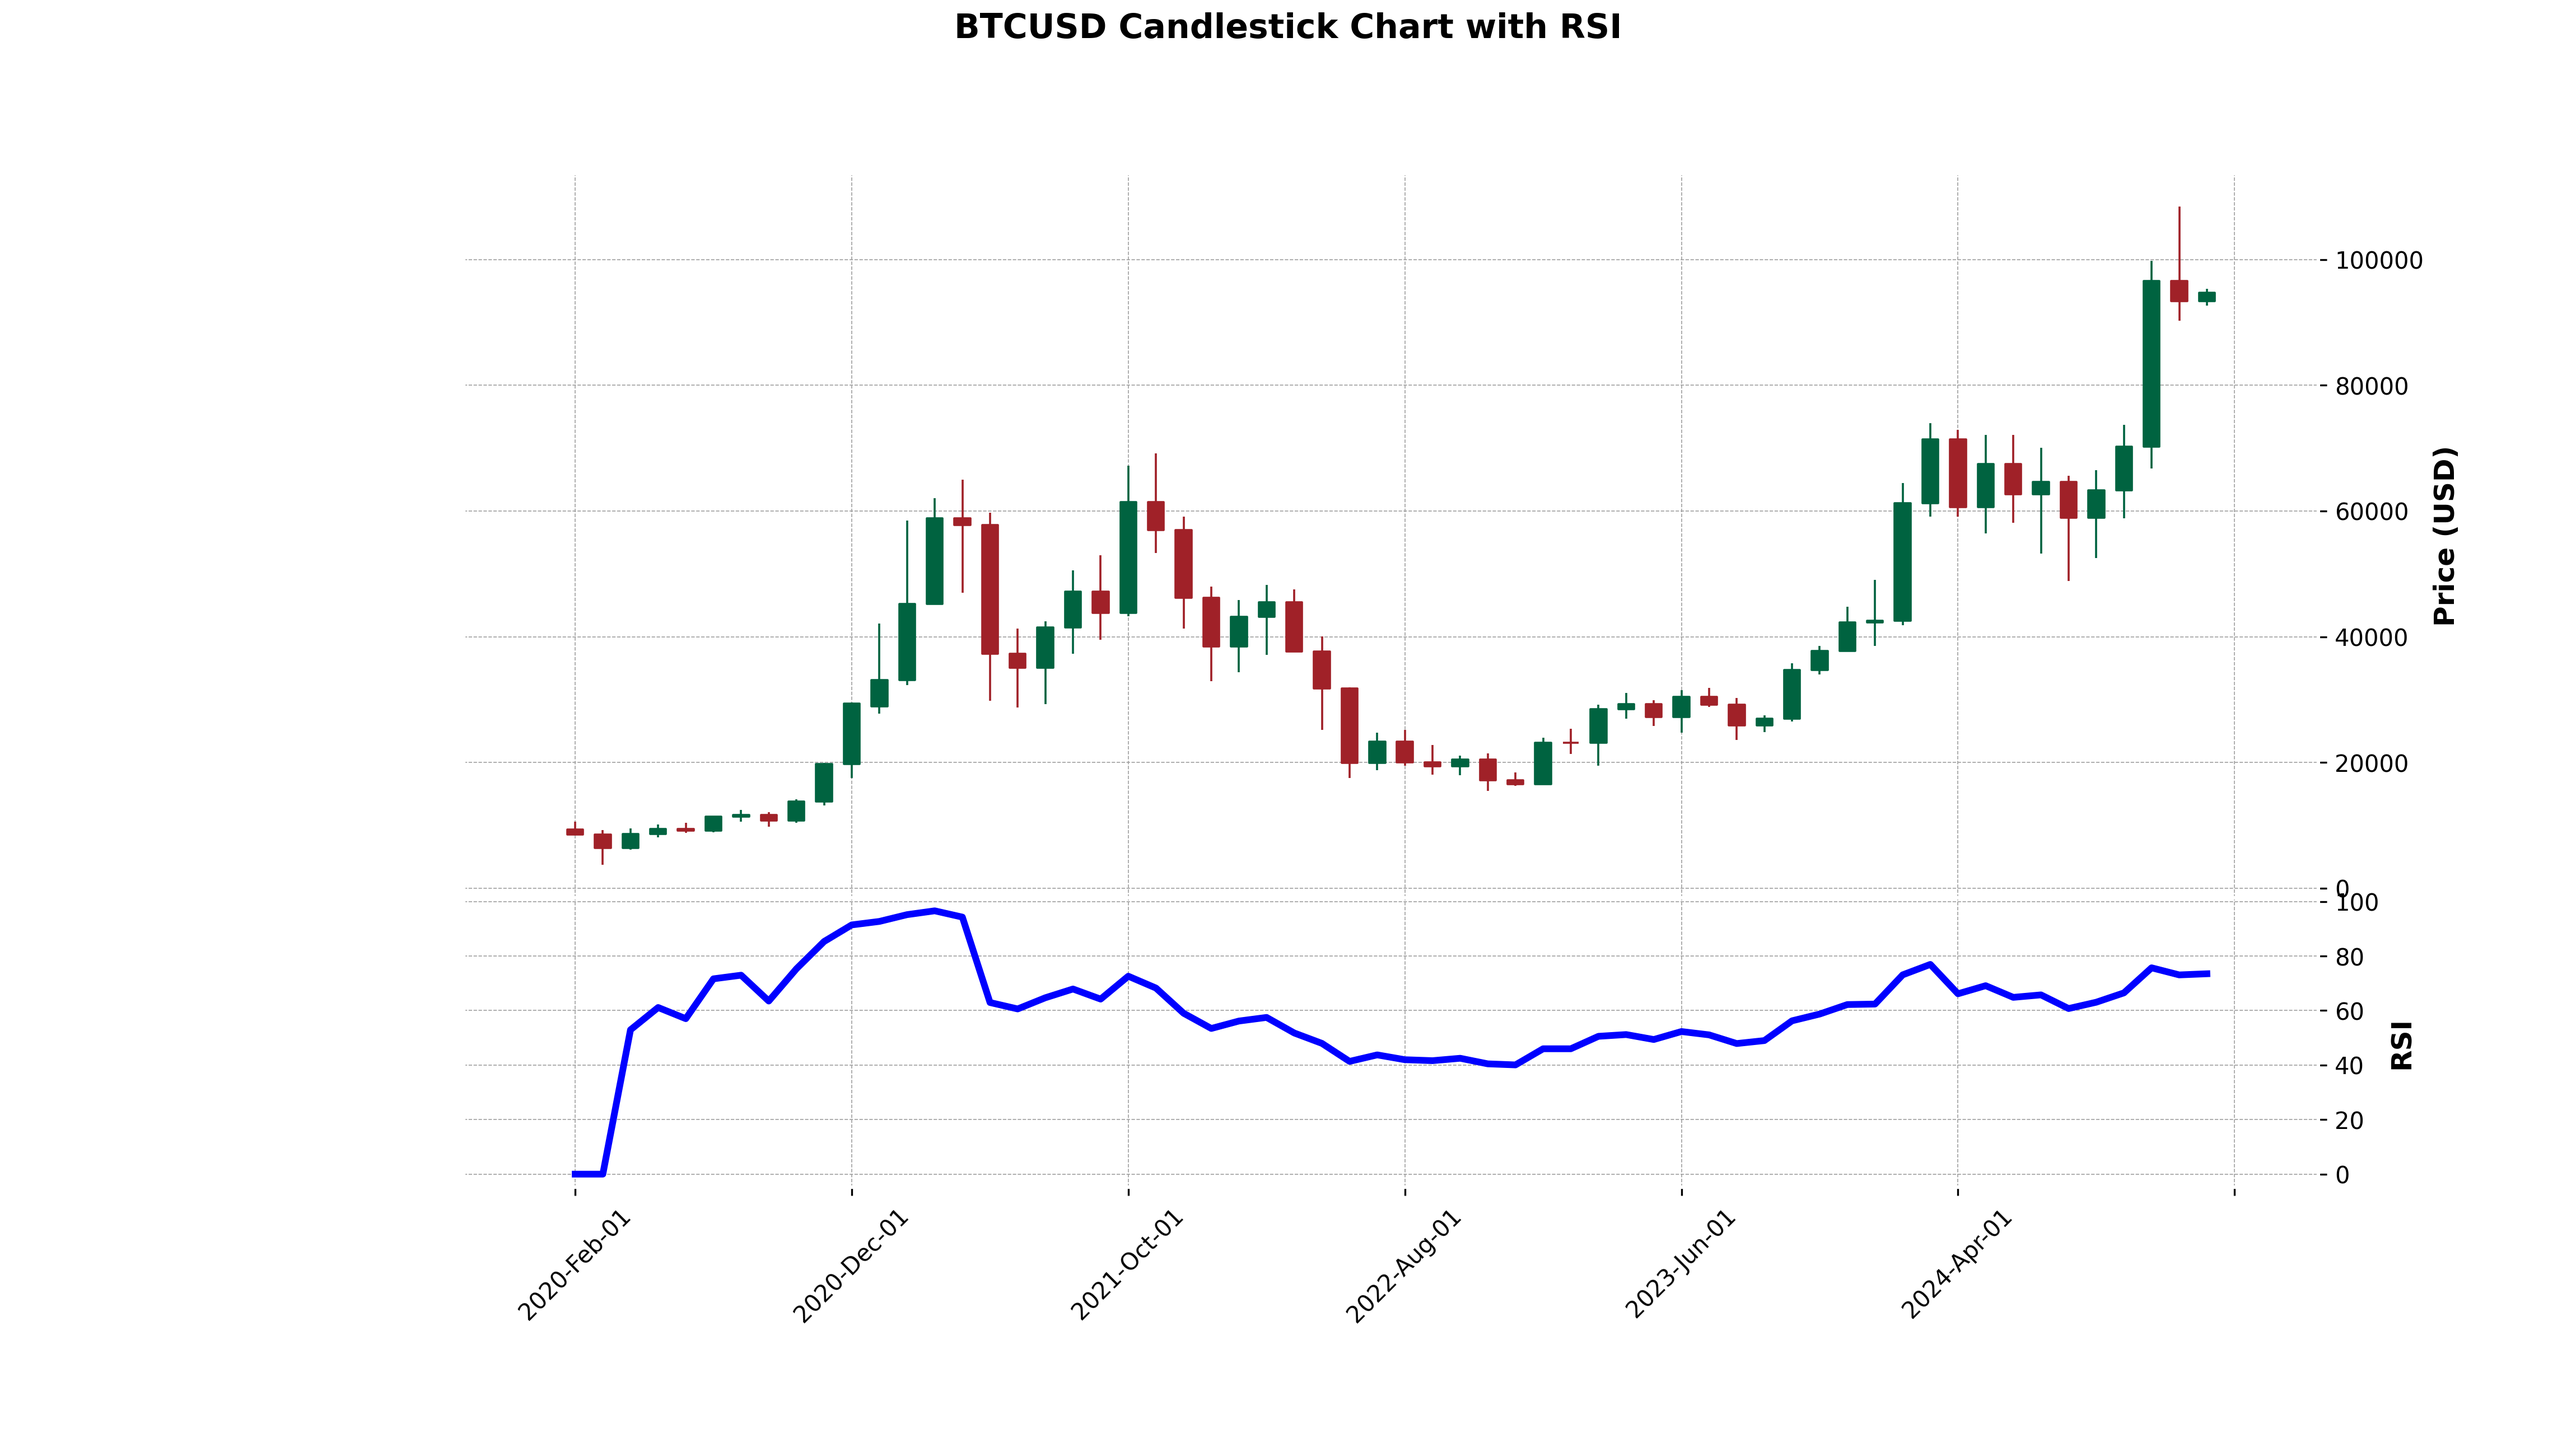
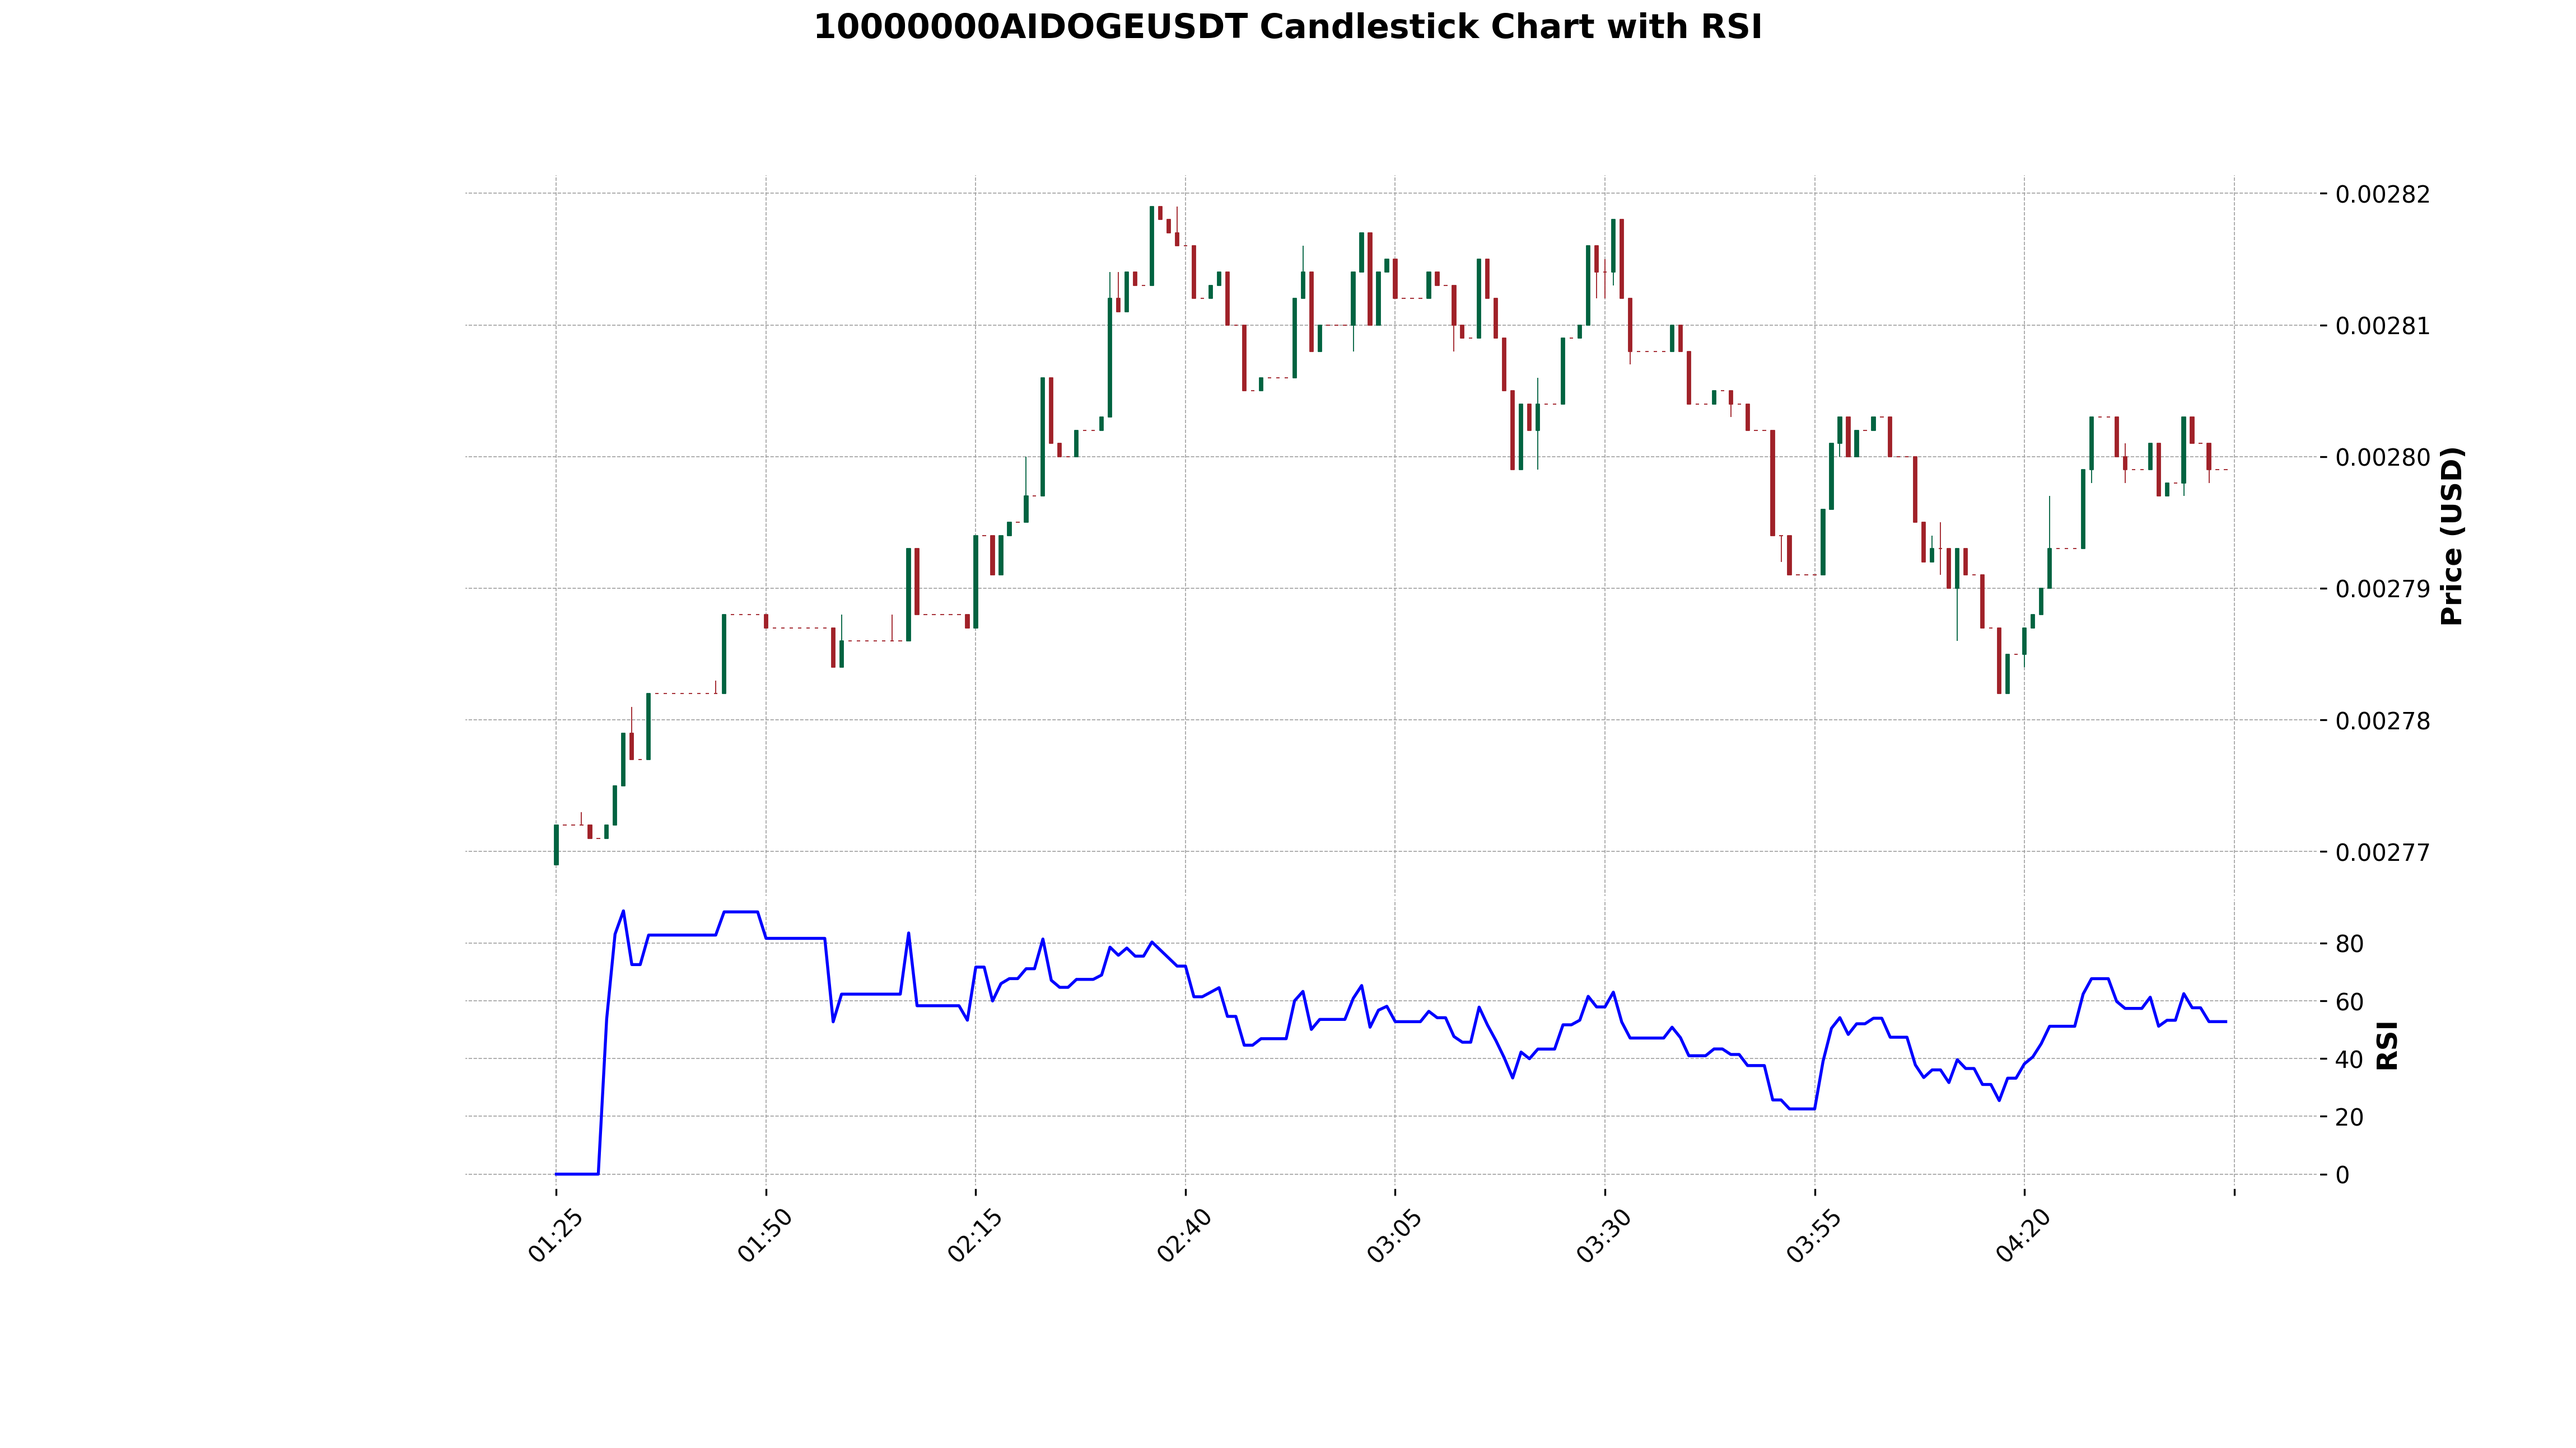
Добавил список получения криптовалют

diff --git a/currency_fetcher.py b/currency_fetcher.py
@@ -1,0 +1,77 @@
+import argparse
+from pybit.unified_trading import HTTP
+
+
+class CurrencyFetcher:
+    def __init__(self, testnet=True):
+        """
+        Инициализация сессии для работы с API Bybit.
+        """
+        self.session = HTTP(testnet=testnet)
+
+    def get_available_symbols(self, category="spot"):
+        """
+        Получение списка доступных торговых пар.
+
+        :param category: Категория рынка (linear, inverse, spot, option)
+        :return: Список словарей с информацией о символах
+        :raises Exception: В случае ошибки API
+        """
+        response = self.session.get_tickers(category=category)
+        
+        # Проверяем успешность запроса
+        if response.get("retCode") != 0:
+            raise Exception(f"Ошибка API: {response.get('retMsg', 'Неизвестная ошибка')}")
+
+        return response['result']['list']
+
+
+if __name__ == '__main__':
+    # Парсер аргументов
+    parser = argparse.ArgumentParser(
+        description="Получение списка валют с Bybit API.",
+        epilog="Пример использования:\n"
+               "  python currency_fetcher.py\n"
+               "  python currency_fetcher.py --category linear --limit all\n"
+               "  python currency_fetcher.py --limit 5",
+        formatter_class=argparse.RawTextHelpFormatter
+    )
+    parser.add_argument(
+        "--category",
+        default="spot",
+        choices=["linear", "inverse", "spot", "option"],
+        help="Категория рынка (по умолчанию: spot)."
+    )
+    parser.add_argument(
+        "--limit",
+        default=10,
+        help="Количество символов для отображения (по умолчанию: 10). Укажите 'all' для вывода всех.",
+    )
+    args = parser.parse_args()
+
+    # Инициализация объекта для работы с API
+    fetcher = CurrencyFetcher(testnet=True)
+
+    try:
+        # Получаем список доступных валют
+        symbols = fetcher.get_available_symbols(category=args.category)
+
+        # Обработка аргумента limit
+        if args.limit == "all":
+            limit = len(symbols)
+        else:
+            try:
+                limit = int(args.limit)
+                if limit <= 0 or limit > len(symbols):
+                    raise ValueError("Число должно быть положительным и не превышать количество символов.")
+            except ValueError as e:
+                print(f"Ошибка параметра --limit: {e}. Используется значение по умолчанию: 10.")
+                limit = 10
+
+        # Вывод информации о символах
+        print(f"Найдено {len(symbols)} символов. Отображается {limit} из них:\n")
+        for symbol in symbols[:limit]:
+            print(f"Символ: {symbol['symbol']}, Последняя цена: {symbol['lastPrice']}, Объем за 24ч: {symbol['volume24h']}")
+
+    except Exception as e:
+        print(f"Ошибка при получении данных: {e}")

diff --git a/main.py b/main.py
@@ -22,7 +22,7 @@ if __name__ == "__main__":
     parser = argparse.ArgumentParser(description="Plot specific indicator chart.")
     parser.add_argument("indicator", choices=["rsi", "stochastic", "cci", "adx", "ao"], help="The type of indicator to plot.")
     parser.add_argument("--symbol", default="BTCUSD", help="The trading pair symbol (default: BTCUSD).")
-    parser.add_argument("--timeframe", choices=INTERVAL_MAPPING.keys(), default="1m", help="Choose timeframe (default: 1m).")
+    parser.add_argument("--timeframe", choices=INTERVAL_MAPPING.keys(), default="1d", help="Choose timeframe (default: 1d).")
     args = parser.parse_args()
 
     # Выбор временного интервала и диапазона
